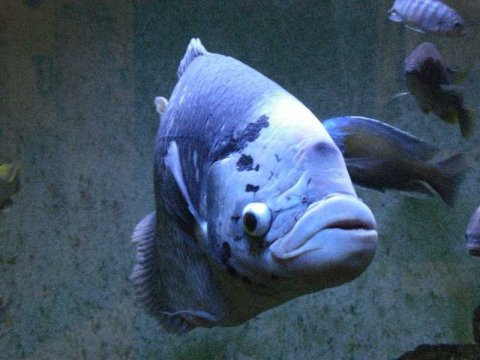
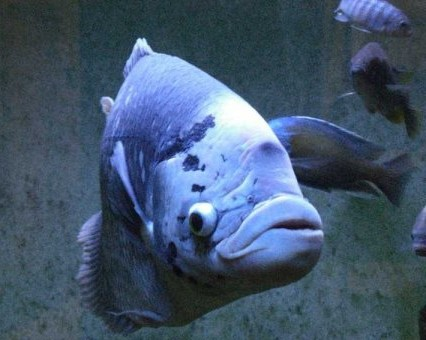
pics

diff --git a/publishing.html b/publishing.html
@@ -25,7 +25,7 @@ title: Publishing
 
       <div class="col-md-6">
         <p>
-        <img src="img/img5.jpg" class="img-responsive img-rounded" alt="" />
+        <img src="img/img5.JPG" class="img-responsive img-rounded" alt="" />
         DDS Micro: http://blogs.rti.com/2016/08/16/how-to-integrate-rti-connext-dds-micro-with-container-based-applications-tutorial
         </p>
         <p>
